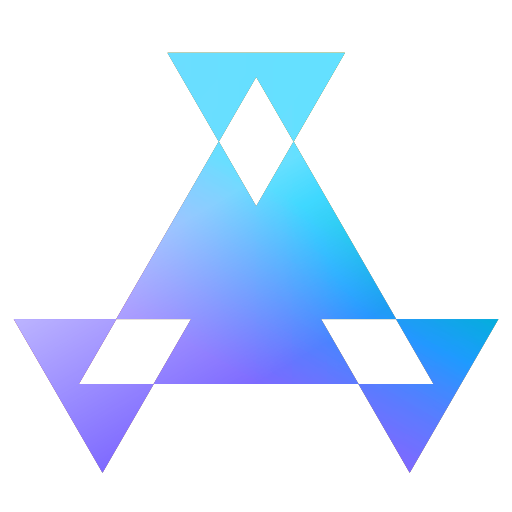
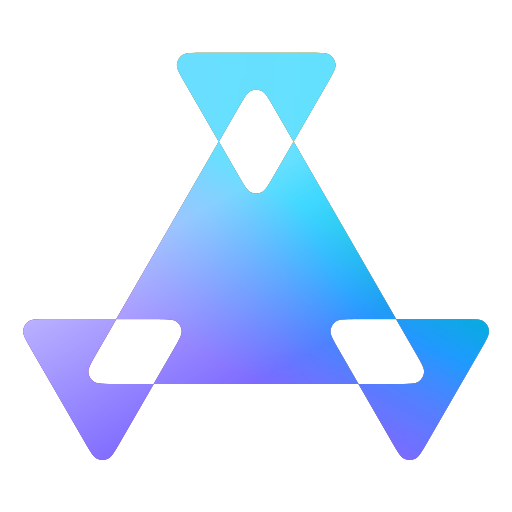
[Re] Release v2.5.1 (#48)
* [Favicon] Renew 2.1

* [Package] Upgrade 2.5.1

diff --git a/src/app/layout.tsx b/src/app/layout.tsx
@@ -24,7 +24,7 @@ export const metadata: Metadata = {
     images: [
       {
         type: "image/png",
-        url: "/android-chrome-512x512.png?v=2.0",
+        url: "/android-chrome-512x512.png?v=2.1",
         width: 512,
         height: 512,
         alt: "wiyco",
@@ -38,7 +38,7 @@ export const metadata: Metadata = {
     images: [
       {
         type: "image/png",
-        url: "/android-chrome-512x512.png?v=2.0",
+        url: "/android-chrome-512x512.png?v=2.1",
         width: 512,
         height: 512,
         alt: "wiyco",
@@ -48,36 +48,36 @@ export const metadata: Metadata = {
   icons: {
     icon: [
       {
-        url: "/favicon-32x32.png?v=2.0",
+        url: "/favicon-32x32.png?v=2.1",
         sizes: "32x32",
         type: "image/png",
       },
       {
-        url: "/favicon-16x16.png?v=2.0",
+        url: "/favicon-16x16.png?v=2.1",
         sizes: "16x16",
         type: "image/png",
       },
       {
-        url: "/favicon.ico?v=2.0",
+        url: "/favicon.ico?v=2.1",
         sizes: "32x32",
       },
       {
-        url: "/icon.svg?v=2.0",
+        url: "/icon.svg?v=2.1",
         sizes: "any",
         type: "image/svg+xml",
       },
     ],
     apple: {
-      url: "/apple-touch-icon.png?v=2.0",
+      url: "/apple-touch-icon.png?v=2.1",
       sizes: "180x180",
       type: "image/png",
     },
   },
-  manifest: "/site.webmanifest?v=2.0",
+  manifest: "/site.webmanifest?v=2.1",
   appleWebApp: {
     title: "wiyco",
     statusBarStyle: "black",
-    startupImage: "/android-chrome-512x512.png?v=2.0",
+    startupImage: "/android-chrome-512x512.png?v=2.1",
   },
 };
 

diff --git a/src/app/(pages)/archive/layout.tsx b/src/app/(pages)/archive/layout.tsx
@@ -15,7 +15,7 @@ export const metadata: Metadata = {
     images: [
       {
         type: "image/png",
-        url: "/android-chrome-512x512.png?v=2.0",
+        url: "/android-chrome-512x512.png?v=2.1",
         width: 512,
         height: 512,
         alt: "wiyco",
@@ -29,7 +29,7 @@ export const metadata: Metadata = {
     images: [
       {
         type: "image/png",
-        url: "/android-chrome-512x512.png?v=2.0",
+        url: "/android-chrome-512x512.png?v=2.1",
         width: 512,
         height: 512,
         alt: "wiyco",

diff --git a/src/app/(pages)/blog/layout.tsx b/src/app/(pages)/blog/layout.tsx
@@ -15,7 +15,7 @@ export const metadata: Metadata = {
     images: [
       {
         type: "image/png",
-        url: "/android-chrome-512x512.png?v=2.0",
+        url: "/android-chrome-512x512.png?v=2.1",
         width: 512,
         height: 512,
         alt: "wiyco",
@@ -29,7 +29,7 @@ export const metadata: Metadata = {
     images: [
       {
         type: "image/png",
-        url: "/android-chrome-512x512.png?v=2.0",
+        url: "/android-chrome-512x512.png?v=2.1",
         width: 512,
         height: 512,
         alt: "wiyco",
